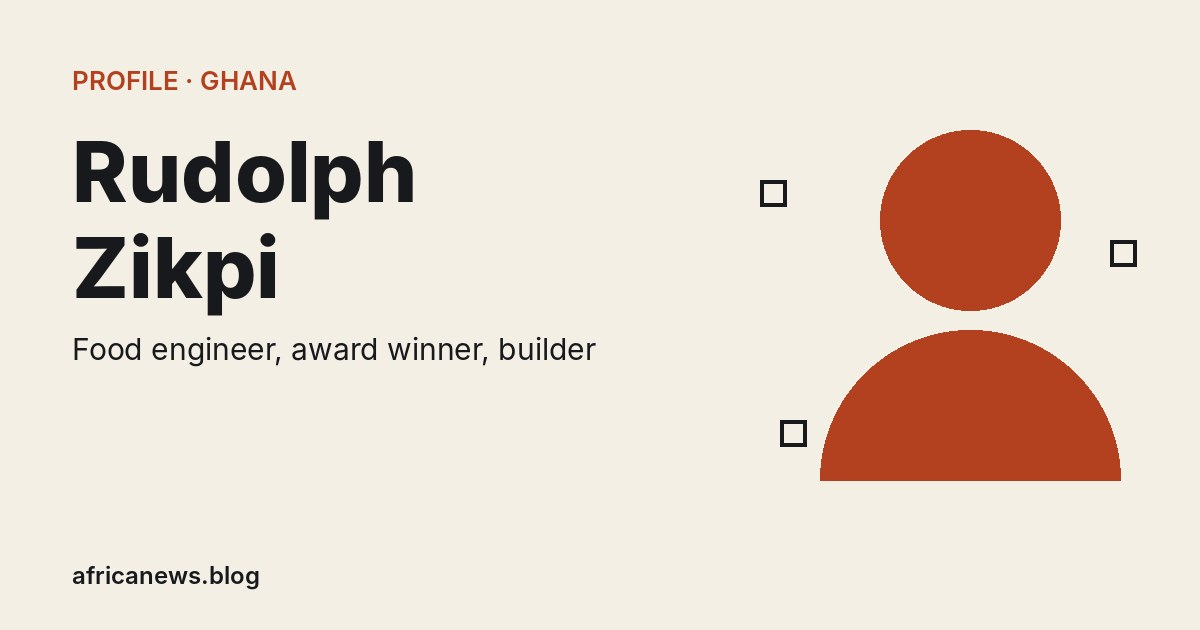
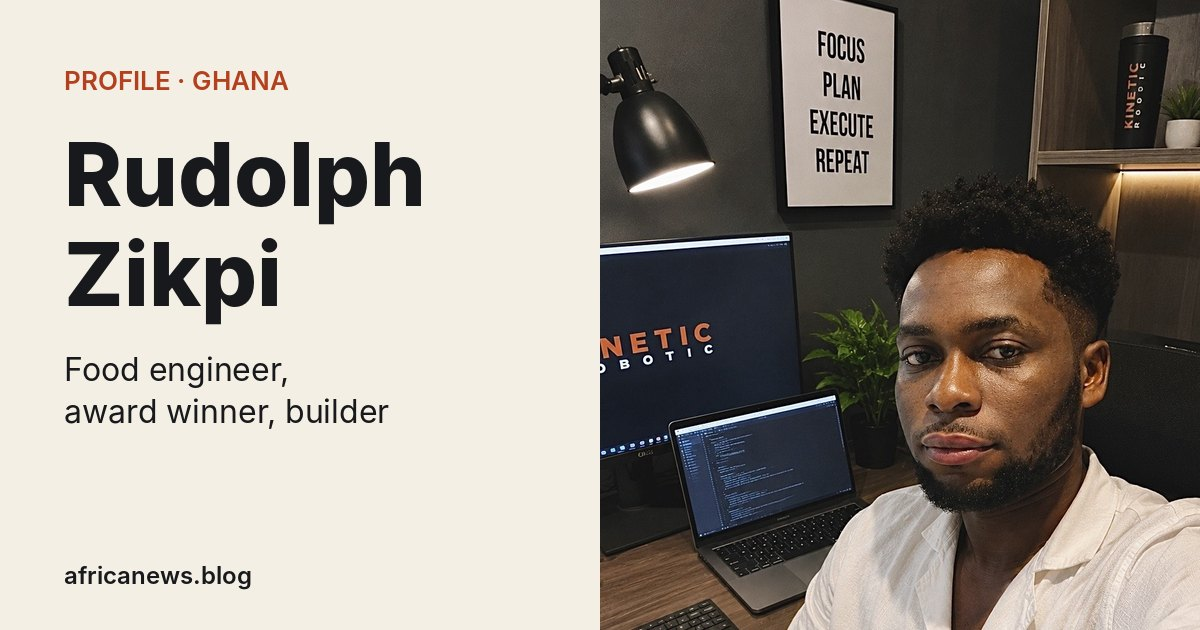
Use Rudolph Zikpi's photo on his profile
Claude-Session: https://claude.ai/code/session_018XCBYA3Wgk8EkrZhQfkpxC

diff --git a/rudolph-zikpi-university-of-ghana-food-engineer-builder/index.html b/rudolph-zikpi-university-of-ghana-food-engineer-builder/index.html
@@ -57,8 +57,8 @@
   </header>
 
   <figure>
-    <img src="/assets/images/rudolph.jpg" width="1200" height="630" alt="Illustration of a person with the words: Rudolph Zikpi, food engineer, award winner, builder">
-    <figcaption>Illustration: africanews.blog</figcaption>
+    <img src="/assets/images/rudolph.jpg" width="1200" height="630" alt="Rudolph Zikpi at his desk, with a laptop showing code and a monitor behind him">
+    <figcaption>Rudolph Zikpi at his desk. Photo supplied by Rudolph Zikpi</figcaption>
   </figure>
 
   <div class="narrow body">

diff --git a/index.html b/index.html
@@ -64,7 +64,7 @@
     </div>
     <div class="story">
       <a href="/rudolph-zikpi-university-of-ghana-food-engineer-builder/">
-        <img src="/assets/images/rudolph.jpg" width="1200" height="630" alt="Illustration of a person with the words Rudolph Zikpi" loading="lazy">
+        <img src="/assets/images/rudolph.jpg" width="1200" height="630" alt="Rudolph Zikpi at his desk" loading="lazy">
       </a>
       <div>
         <p class="kicker">Profile · Ghana</p>
